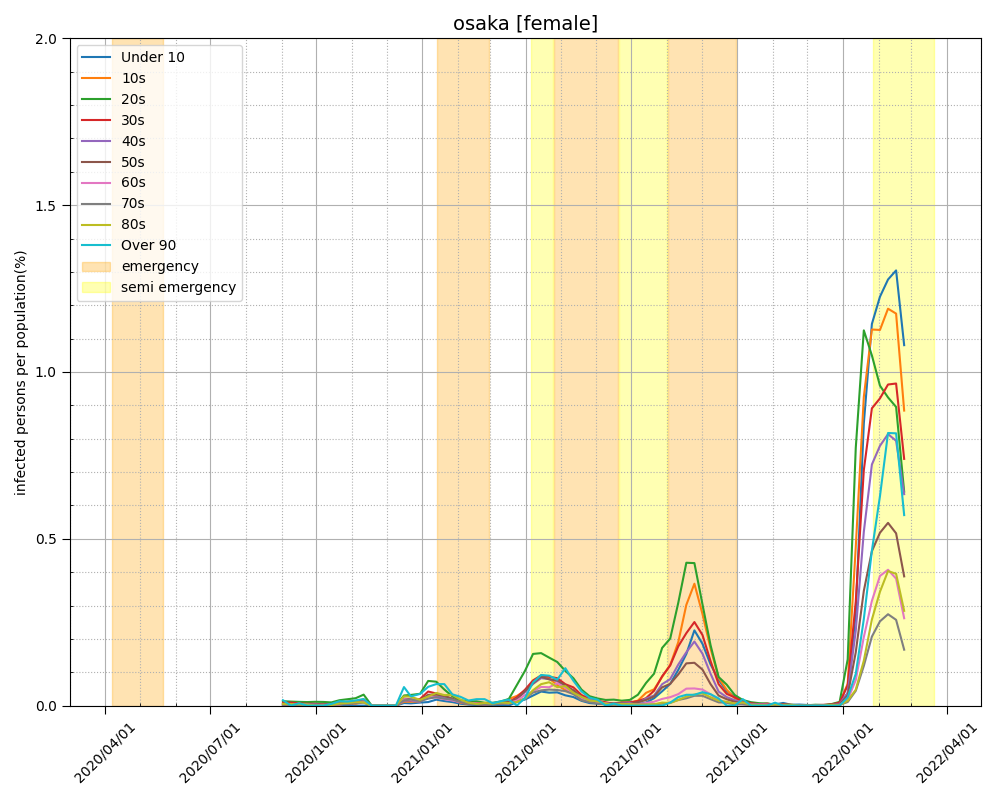
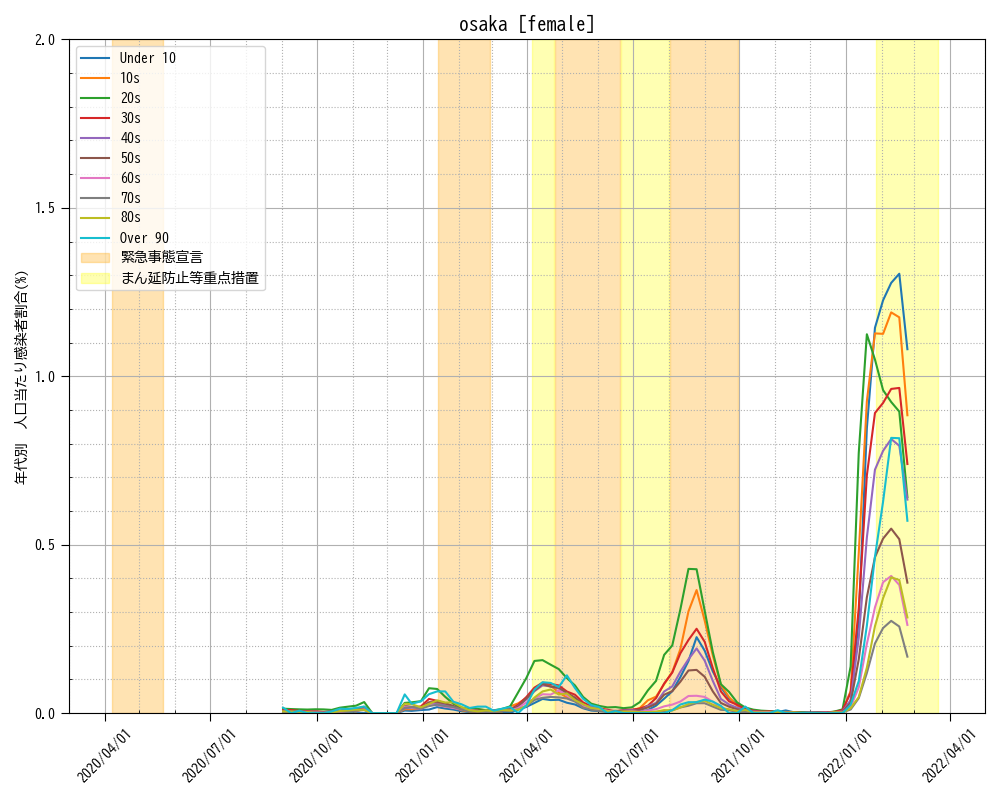
グラフの一部表記を日本語化

diff --git a/graph_option.py b/graph_option.py
@@ -4,13 +4,13 @@ from datetime import datetime as dt
 # 緊急事態宣言等の履歴
 # https://www.kwm.co.jp/blog/state-of-emergency/
 emergency_term = [  # 緊急事態宣言
-    [dt.fromisoformat('2020-04-07'), dt.fromisoformat('2020-05-21'), 'emergency'],  # 1回目
+    [dt.fromisoformat('2020-04-07'), dt.fromisoformat('2020-05-21'), '緊急事態宣言'],  # 1回目
     [dt.fromisoformat('2021-01-14'), dt.fromisoformat('2021-02-28'), None],  # 2回目
     [dt.fromisoformat('2021-04-25'), dt.fromisoformat('2021-06-20'), None],  # 3回目、2回目のまん防に変わった
     [dt.fromisoformat('2021-08-02'), dt.fromisoformat('2021-09-30'), None],  # 4回目
 ]
 semi_emergency_term = [  # まん延防止等重点措置
-    [dt.fromisoformat('2021-04-05'), dt.fromisoformat('2021-04-24'), 'semi emergency'],  # 1回目、3回目の緊急事態宣言に変わった
+    [dt.fromisoformat('2021-04-05'), dt.fromisoformat('2021-04-24'), 'まん延防止等重点措置'],  # 1回目、3回目の緊急事態宣言に変わった
     [dt.fromisoformat('2021-06-21'), dt.fromisoformat('2021-08-01'), None],  # 2回目、4回目の緊急事態宣言に変わった
     [dt.fromisoformat('2022-01-27'), dt.fromisoformat('2022-03-21'), None],  # 3回目、延長中
 ]

diff --git a/make_output_row.py b/make_output_row.py
@@ -18,7 +18,7 @@ def _make_graph_row(df_population, df_infected, prefectures, target):
         plt.axvspan(term[0], term[1], color="yellow", alpha=0.3, label=term[2])
 
     # 左Y軸 主目盛
-    plt.ylabel('infected')
+    plt.ylabel('感染者数')
     plt.ylim(0, 10000)
     plt.gca().yaxis.set_major_locator(ticker.MultipleLocator(2500))
     plt.gca().tick_params(which='major', axis='y', length=6)
@@ -45,7 +45,7 @@ def _make_graph_row(df_population, df_infected, prefectures, target):
     ax2.plot(df_population, label=df_population.columns, linestyle='dashdot', linewidth =0.8)
     ax2.set_ylim(0, 1000000)
     ax2.yaxis.set_major_locator(ticker.MultipleLocator(250000))
-    ax2.set_ylabel('population')
+    ax2.set_ylabel('人口')
 
     # 全体設定
     plt.title(f"{prefectures} [{target}]", fontsize=14)

diff --git a/make_output_ratio.py b/make_output_ratio.py
@@ -1,4 +1,5 @@
 import datetime
+
 import pandas as pd
 import matplotlib.pyplot as plt
 import matplotlib.dates as mdates
@@ -45,7 +46,7 @@ def _make_graph_ratio(df_result, prefectures, target):
         plt.axvspan(term[0], term[1], color="yellow", alpha=0.3, label=term[2])
 
     # Y軸 主目盛
-    plt.ylabel('infected persons per population(%)')
+    plt.ylabel('人口当たり感染者割合(%)')
     plt.ylim(0, 2)
     plt.gca().yaxis.set_major_locator(ticker.MultipleLocator(0.5))
     plt.gca().tick_params(which='major', axis='y', length=6)

diff --git a/main.py b/main.py
@@ -1,3 +1,5 @@
+import matplotlib
+
 from make_output_row import make_output_row
 from read_infected import read_infected
 from read_population_osaka_fu import read_population_osaka_fu
@@ -12,6 +14,9 @@ if __name__ == '__main__':
 
     # 感染者数データ
     infected = read_infected('input/newly_confirmed_cases_detail_weekly.csv', 'UTF-8')
+
+    # グラフに日本語を使う設定
+    matplotlib.rc('font', family='BIZ UDGothic')
 
     # 出力(割合)
     make_output_ratio(_period_array, population, infected, 'osaka', 'male')
